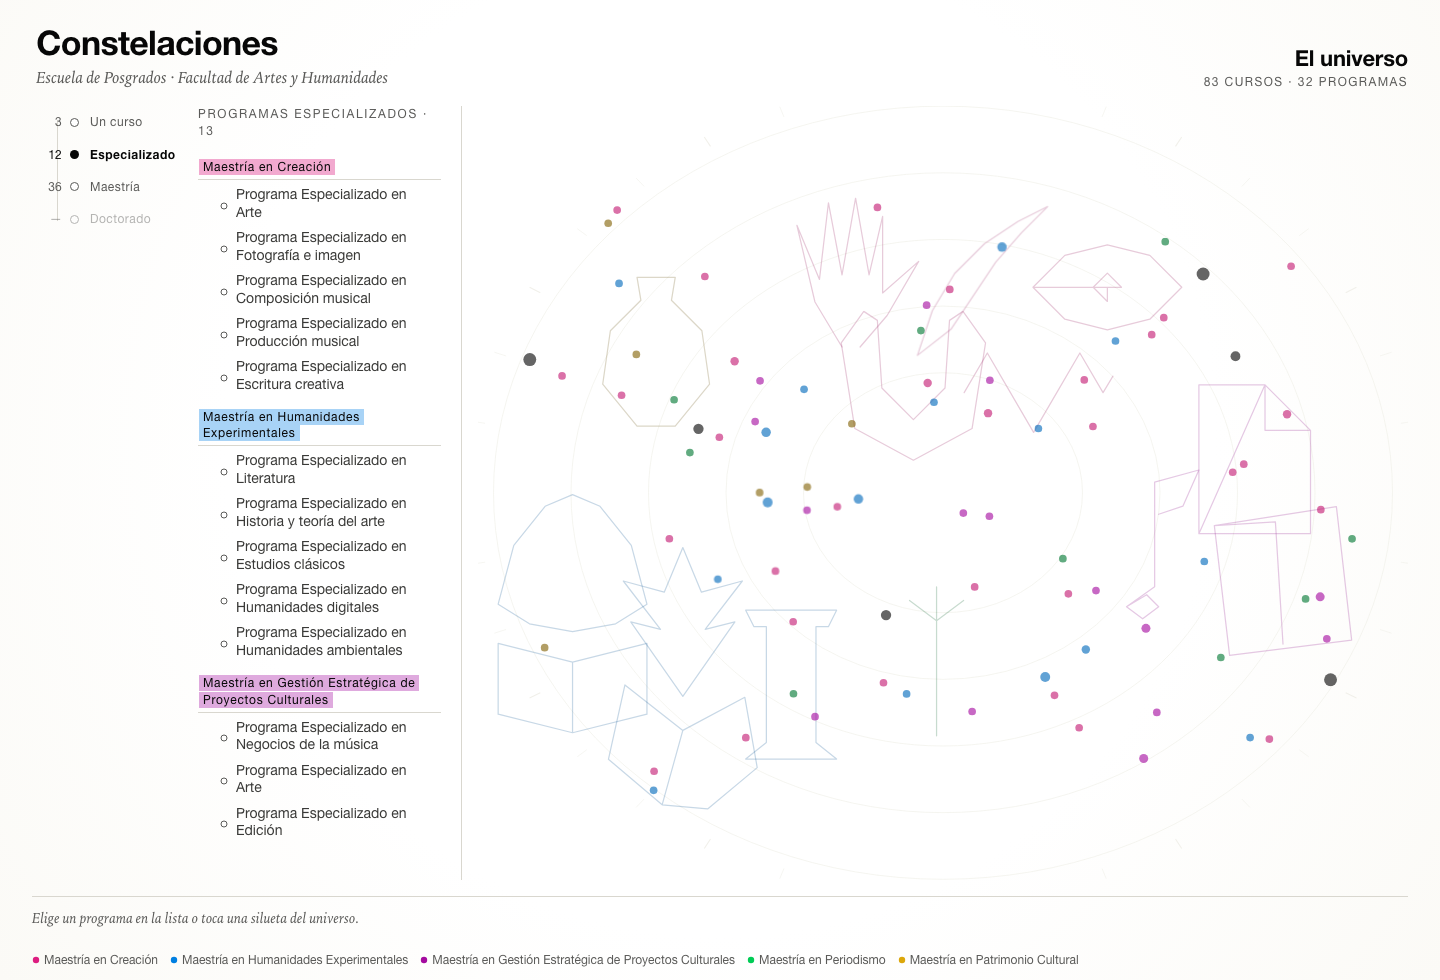
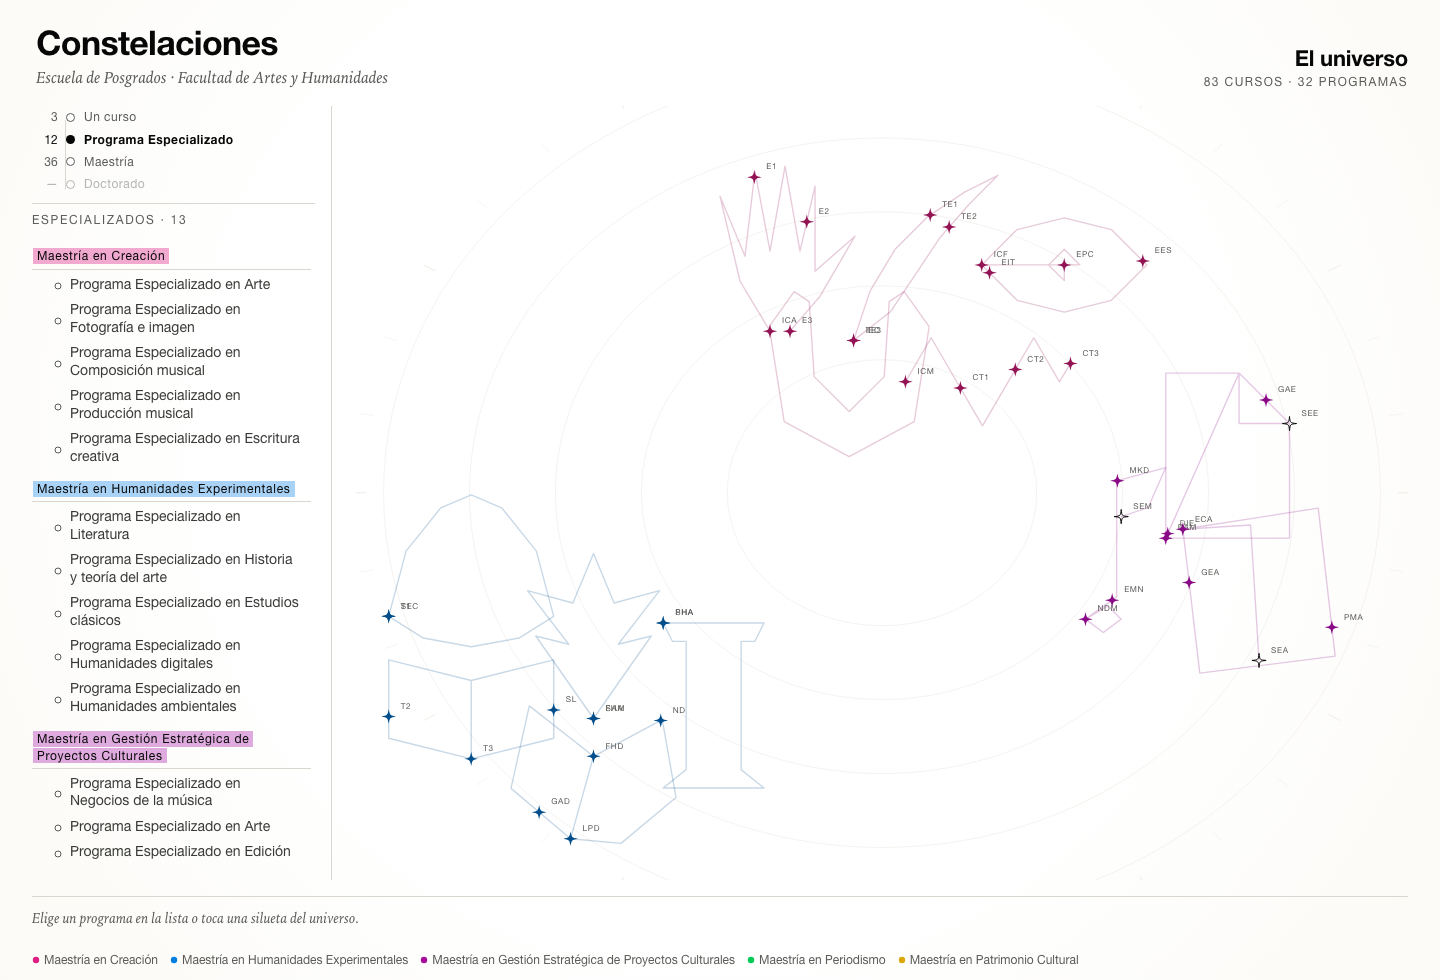
La escala del especializado muestra fragmentos
- compose acepta el nivel; a 12 créditos dibuja 13 fragmentos
- figura del énfasis en fantasma con sus cuatro estrellas encendidas
- sin regiones y sin las maestrías de plan único a esa escala
- clic en la figura elige el programa especializado
- 35 pruebas; docs y capturas

diff --git a/src/lib/domain/compose.ts b/src/lib/domain/compose.ts
@@ -3,6 +3,7 @@ import { cursosOf, nucleoOf } from './graph'
 import { figureOf, placeOnFigure, type Punto } from './figures'
 import { nebulaToViewport } from './nebula'
 import { envolvente } from './hull'
+import type { Nivel } from './niveles'
 
 export type EstadoEstrella = 'nebulosa' | 'nucleo' | 'figura' | 'enlace'
 
@@ -26,6 +27,8 @@ export interface FiguraDibujo {
 export interface Silueta {
   programaId: string
   puntos: Punto[]
+  /** Qué programa se elige al hacer clic, si no es la figura misma. */
+  objetivo?: string
 }
 
 export interface Escena {
@@ -90,7 +93,12 @@ const centroDe = (pts: Punto[]): Punto => [
  *   figuras, cada una con sus cursos exclusivos; lo que comparte un subconjunto
  *   de énfasis se ubica entre sus figuras.
  */
-export function compose(seleccion: string[], ancho: number, alto: number): Escena {
+export function compose(
+  seleccion: string[],
+  ancho: number,
+  alto: number,
+  nivel: Nivel = 'maestria',
+): Escena {
   const aNebulosa = nebulaToViewport(ancho, alto)
   const estrellas = new Map<string, Estrella>()
 
@@ -102,6 +110,7 @@ export function compose(seleccion: string[], ancho: number, alto: number): Escen
   const activo = seleccion.find((id) => curriculum.programas[id])
   if (!activo) {
     const siluetas = siluetasDelCielo(ancho, alto)
+    if (nivel === 'especializado') return componerFragmentos(siluetas, estrellas, ancho, alto)
     return {
       ancho,
       alto,
@@ -118,6 +127,59 @@ export function compose(seleccion: string[], ancho: number, alto: number): Escen
   return hijos.length >= 2
     ? componerFamilia(activo, hijos, estrellas, ancho, alto)
     : componerFigura(activo, estrellas, ancho, alto)
+}
+
+/* ------------------------------------------------------------------ */
+/* La escala del especializado: trece fragmentos                        */
+/* ------------------------------------------------------------------ */
+
+/**
+ * A doce créditos, cada programa especializado es un fragmento de su énfasis:
+ * la figura queda de fantasma y se encienden solo sus cuatro estrellas.
+ * Las maestrías de plan único no tienen puerta de doce créditos y no aparecen.
+ */
+function componerFragmentos(
+  siluetas: Silueta[],
+  estrellas: Map<string, Estrella>,
+  ancho: number,
+  alto: number,
+): Escena {
+  const pes = Object.values(curriculum.programas).filter((p) => p.tipo === 'programa_especializado')
+  const porPadre = new Map(siluetas.map((s) => [s.programaId, s.puntos]))
+  const dibujadas: Silueta[] = []
+
+  for (const pe of pes) {
+    const padreId = pe.padreId
+    const figura = padreId ? porPadre.get(padreId) : null
+    if (!figura) continue
+    const cursos = ordenarPorPlan(pe.id, cursosOf(pe.id))
+    const posiciones = placeOnFigure(figura, cursos.length)
+    cursos.forEach((cursoId, i) => {
+      const e = estrellas.get(cursoId)
+      if (!e) return
+      e.x = posiciones[i][0]
+      e.y = posiciones[i][1]
+      e.estado = 'figura'
+      e.en = [pe.id]
+    })
+    dibujadas.push({ programaId: padreId!, puntos: figura, objetivo: pe.id })
+  }
+
+  const enFragmento = new Set(dibujadas.map((s) => s.objetivo))
+  for (const e of estrellas.values()) {
+    if (!enFragmento.has(e.en[0])) e.estado = 'nebulosa'
+  }
+
+  return {
+    ancho,
+    alto,
+    estrellas: [...estrellas.values()],
+    figuras: [],
+    nucleo: [],
+    eje: null,
+    siluetas: dibujadas,
+    limites: [],
+  }
 }
 
 /* ------------------------------------------------------------------ */

diff --git a/src/lib/components/SkyStage.svelte b/src/lib/components/SkyStage.svelte
@@ -97,7 +97,10 @@
   })
 
   const anillos = [180, 280, 380, 480, 580]
-  const enNebulosa = $derived(seleccion.length === 0)
+  const sinPrograma = $derived(seleccion.length === 0)
+  /** En la escala del especializado el cielo se lee como fragmentos, no como nebulosa. */
+  const enFragmento = $derived(sinPrograma && nivel === 'especializado')
+  const enNebulosa = $derived(sinPrograma && !enFragmento)
 </script>
 
 <svg
@@ -138,10 +141,11 @@
     {/each}
   </g>
 
-  {#if enNebulosa}
+  {#if sinPrograma}
     <g class="selector-siluetas nivel-{nivel}">
       {#each escena.siluetas as s (s.programaId)}
-        {@const p = curriculum.programas[s.programaId]}
+        {@const objetivo = s.objetivo ?? s.programaId}
+        {@const p = curriculum.programas[objetivo]}
         {@const bx = s.puntos.reduce((a, q) => a + q[0], 0) / s.puntos.length}
         {@const by = Math.max(...s.puntos.map((q) => q[1]))}
         {@const anchoEt = Math.max(72, p.nombreCorto.length * 7.4 + 22)}
@@ -157,11 +161,11 @@
           onmouseleave={() => (siluetaHover = null)}
           onfocus={() => (siluetaHover = s.programaId)}
           onblur={() => (siluetaHover = null)}
-          onclick={() => onElegir(s.programaId)}
+          onclick={() => onElegir(objetivo)}
           onkeydown={(ev) => {
             if (ev.key === 'Enter' || ev.key === ' ') {
               ev.preventDefault()
-              onElegir(s.programaId)
+              onElegir(objetivo)
             }
           }}
         >
@@ -172,7 +176,7 @@
             r="46"
             fill="transparent"
           />
-          <path d={polylinePath(s.puntos)} fill="none" stroke={colorDe(s.programaId)} />
+          <path d={polylinePath(s.puntos)} fill="none" stroke={colorDe(objetivo)} />
           <g class="etiqueta">
             <rect
               x={etX - anchoEt / 2}
@@ -217,8 +221,9 @@
     {#each escena.estrellas as e (e.cursoId)}
       {@const c = curriculum.cursos[e.cursoId]}
       {@const p = pos[e.cursoId] ?? [e.x, e.y]}
-      {@const r = radioDe(c.nProgramas)}
+      {@const r = enFragmento ? 7 : radioDe(c.nProgramas)}
       {#if e.estado === 'nebulosa'}
+        {#if !enFragmento}
         {@const fam = familiaDe(e.cursoId)}
         <circle
           cx={p[0]}
@@ -227,6 +232,7 @@
           fill={fam === 'ink' ? 'var(--c-ink)' : `var(--c-${fam}-3)`}
           opacity={enNebulosa ? 0.62 : 0.22}
         />
+        {/if}
       {:else}
         {@const color = colorEstrella(e.en)}
         <g
@@ -257,6 +263,7 @@
           x={p[0] + r + 7}
           y={p[1] - r - 2}
           class="código"
+          class:fragmento={enFragmento}
           class:visible={!viajando || resaltado === e.cursoId}
         >{c.codigo}</text>
       {/if}
@@ -406,6 +413,11 @@
     opacity: 0;
     transition: opacity var(--t-base) var(--ease) 240ms;
     pointer-events: none;
+  }
+
+  .código.fragmento {
+    font-size: 9.5px;
+    fill: var(--c-ink-3);
   }
 
   .código.visible {

diff --git a/src/lib/domain/compose.test.ts b/src/lib/domain/compose.test.ts
@@ -1,4 +1,5 @@
 import { describe, expect, it } from 'vitest'
+import { cursosOf } from './graph'
 import { compose, propiosOf } from './compose'
 import { nucleoOf } from './graph'
 import { curriculum } from '../data/types'
@@ -121,5 +122,31 @@ describe('escalas', () => {
   it('en la vista de detalle no hay contornos: la figura ya es la forma', () => {
     expect(compose(['pe-creacion-arte'], ANCHO, ALTO).limites).toHaveLength(0)
     expect(compose(['mae-creacion'], ANCHO, ALTO).limites).toHaveLength(0)
+  })
+})
+
+describe('escala del especializado', () => {
+  it('dibuja trece fragmentos: la figura del énfasis con sus cuatro estrellas', () => {
+    const escena = compose([], ANCHO, ALTO, 'especializado')
+    expect(escena.siluetas).toHaveLength(13)
+    expect(escena.limites).toHaveLength(0)
+    for (const s of escena.siluetas) {
+      expect(curriculum.programas[s.objetivo!].tipo).toBe('programa_especializado')
+    }
+    // tantas estrellas encendidas como cursos distintos en los cuerpos de especialización
+    const esperados = new Set<string>()
+    for (const pe of Object.values(curriculum.programas).filter(
+      (p) => p.tipo === 'programa_especializado',
+    )) {
+      for (const c of cursosOf(pe.id)) esperados.add(c)
+    }
+    const encendidas = escena.estrellas.filter((e) => e.estado === 'figura')
+    expect(encendidas.length).toBe(esperados.size)
+  })
+
+  it('las maestrías sin programa especializado no aparecen a esa escala', () => {
+    const ids = compose([], ANCHO, ALTO, 'especializado').siluetas.map((s) => s.objetivo)
+    expect(ids).not.toContain('mae-periodismo')
+    expect(ids).not.toContain('mae-patrimonio')
   })
 })

diff --git a/src/App.svelte b/src/App.svelte
@@ -24,7 +24,7 @@
   let nivel = $state<Nivel>('maestria')
   let cursoAbierto = $state<string | null>(null)
 
-  const escena = $derived(compose(seleccion, ANCHO, ALTO))
+  const escena = $derived(compose(seleccion, ANCHO, ALTO, nivel))
 
   const cursoActivo = $derived(cursoAbierto ? curriculum.cursos[cursoAbierto] : null)
 

diff --git a/docs/constellation.md b/docs/constellation.md
@@ -98,7 +98,7 @@ compromiso, y la escala se elige en una **barra vertical** a la izquierda del se
 | Escala | Créditos | Objetos | Qué se ve |
 |---|---|---|---|
 | Un curso | 3 | 83 | estrellas y siluetas al 12 % |
-| Especializado | 12 | 13 | las siluetas al 30 %; al abrir uno, sus cuatro cursos |
+| Especializado | 12 | 13 | trece fragmentos: la figura de su énfasis en fantasma y sus cuatro estrellas |
 | Maestría | 36 | 5 | las regiones: una línea que encierra las figuras de cada maestría |
 | Doctorado | — | 0 | deshabilitado: la escala existe, la tabla no |
 
@@ -111,6 +111,14 @@ figuras que le pertenecen: en las que tienen énfasis, alrededor de sus énfasis
 variantes o no. El especializado no necesita contorno: al abrirlo, su figura se dibuja con sus cuatro
 estrellas encendidas y el resto de la constelación apagada — la forma ya dice qué es.
 No hay galaxias ni órbitas: el cielo gana fronteras, no astros nuevos.
+
+**A doce créditos se ve el fragmento.** Un programa especializado es un trozo de su énfasis: cuatro
+cursos de los doce que tiene el plan. Por eso a esa escala la figura queda de fantasma y solo se
+encienden sus cuatro estrellas, con su código. Se ve de dónde sale el fragmento —y hacia dónde
+homologa— sin dibujar dos veces el mismo plan.
+
+Las dos maestrías sin programa especializado (Periodismo, Patrimonio cultural) **no aparecen** a esa
+escala. No es un olvido: no tienen puerta de doce créditos, y esa ausencia es información.
 
 **El énfasis no es una escala.** Es una variante de la maestría: los mismos 36 créditos con una
 especificación. Vive dentro de la región de su maestría, como las figuras que la habitan.

diff --git a/docs/diary.md b/docs/diary.md
@@ -272,3 +272,18 @@ para decir una cosa.
 énfasis», así que las dos de plan único solo se nombraban al pasar el cursor. Ahora cada maestría
 recibe su envolvente: la de sus énfasis si los tiene, la de su única figura si no. El contorno de una
 sola figura es una cápsula apretada, y está bien: dice que ese título y ese plan son la misma cosa.
+
+---
+
+## 2026-10-30 · El fragmento
+
+**A doce créditos, el cielo muestra fragmentos.** Cada programa especializado se dibuja sobre la
+figura de su énfasis, en fantasma, con solo sus cuatro estrellas encendidas. *Por qué:* un
+especializado es literalmente un trozo del plan —cuatro de sus doce cursos—, y esa es la única forma
+de que el cielo muestre a la vez de dónde sale y hacia dónde homologa.
+
+**Periodismo y Patrimonio cultural desaparecen a esa escala.** No tienen puerta de doce créditos. La
+ausencia es información, no un olvido: el escalón dice cuáles son las puertas que existen.
+
+**Tres escalas, tres estados del mismo cielo:** estrellas sueltas (un curso), fragmentos (doce
+créditos), figuras y regiones (el título). Ninguna posición cambia entre una y otra.

diff --git a/docs/plan.md b/docs/plan.md
@@ -127,6 +127,7 @@ brazos; `prefers-reduced-motion` salta al estado final.
 - [x] La escala filtra la lista y re-pondera el cielo; no rehace el layout
 - [x] Regiones: contorno discontinuo por maestría con sus énfasis dentro
 - [x] Sin contornos en la vista de detalle: la figura ya es la forma
+- [x] Escala del especializado: trece fragmentos (figura fantasma + cuatro estrellas)
 - [x] Detalle de curso con la escalera «Cuenta para»
 - [x] 34 pruebas
 
